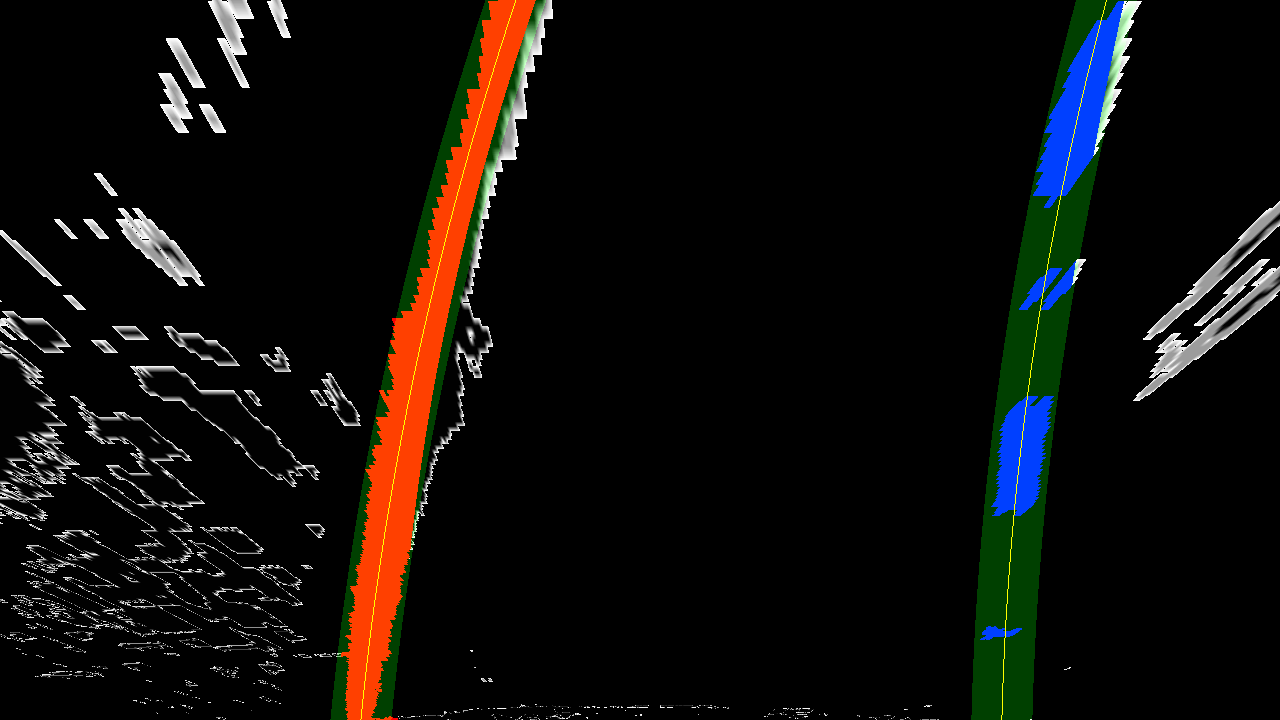
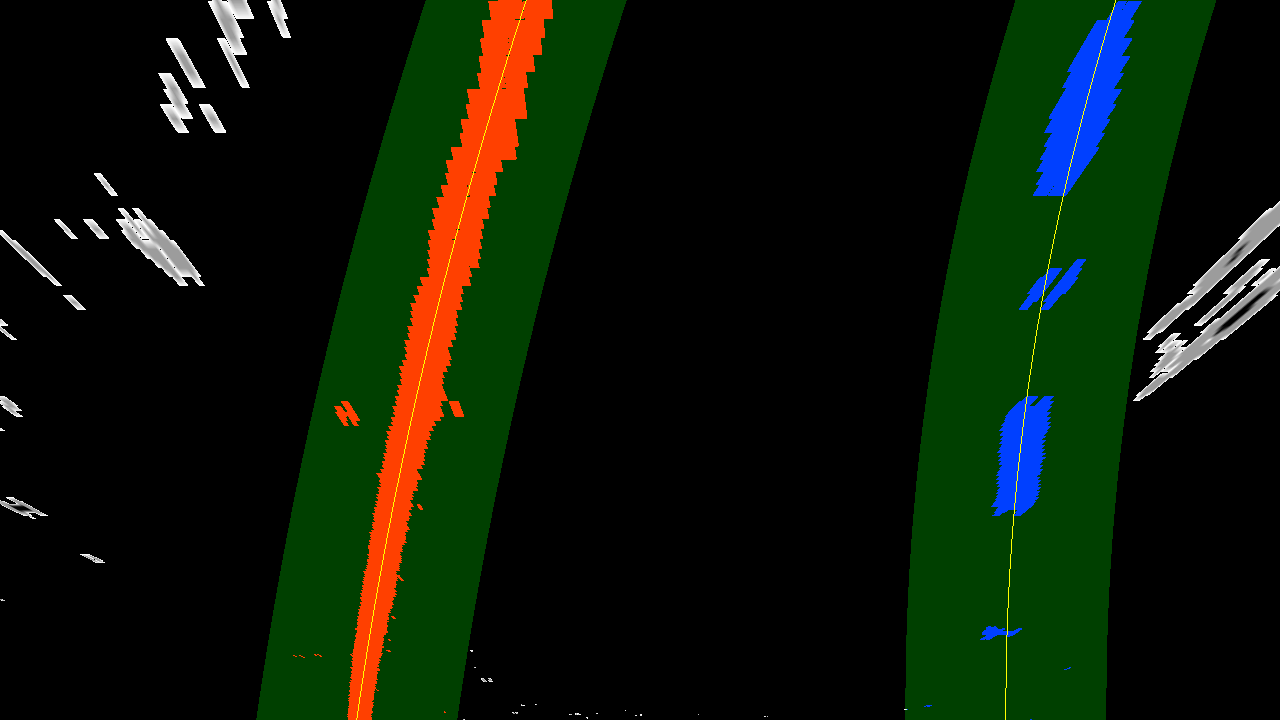
To be checked before commit

diff --git a/detect.py b/detect.py
@@ -1,4 +1,6 @@
+import argparse
 import numpy as np
+from numpy.linalg import inv
 import cv2
 import matplotlib
 matplotlib.use('agg')
@@ -129,13 +131,14 @@ def Init(img):
     global dist
     global initialized
     mtx, dist = C.LoadCalibrationCoeffs()
-    assert(mtx != None)
-    assert(dist != None)
 
     global PersMat
     global InvPersMat
     PersMat, InvPersMat = InitPerspectiveMatrix(img)
-    assert(PersMat != None)
+    print([PersMat, InvPersMat])
+    print()
+    print(inv(PersMat))
+    print(InvPersMat)
 
     initialized = True
 
@@ -145,6 +148,9 @@ class LanesDetector():
         # Indicates whether the sliding window histogram needs to
         # be computed
         self.lanesDetected = None
+        # 
+        self.mtx = None
+
         # Image height and width
         self.imageHeight = img_size[0]
         self.imageWidth = img_size[1]
@@ -563,10 +569,14 @@ class LanesDetector():
         assert(image.shape[1] == self.imageWidth)
         self.imageCounter += 1
 
-        undistorted = cv2.undistort(image, mtx, dist, None, mtx)
-        binary = self.Binarization(undistorted)
-        topDownViewBinarized = self.PerspectiveTransform(binary, PersMat)
+        undistorted = cv2.undistort(image, self.mtx, dist, None, self.mtx)
         topDownView = self.PerspectiveTransform(undistorted, PersMat)
+        topDownViewBinarized = self.Binarization(topDownView)
+
+        binary = self.Binarization(undistorted)
+        #topDownViewBinarized = self.PerspectiveTransform(binary, PersMat)
+        #topDownView = self.PerspectiveTransform(undistorted, PersMat)
+
         # result = self.BlindSlidingWindowsHistogram(topDownViewBinarized)
         # self.PolynomialFitAnalysis()
         # result, ploty, l_fit, r_fit = self.VisualizeHistogramPolynomial(result)
@@ -602,7 +612,17 @@ class LanesDetector():
         self.imageCounter += 1
         return binary
 
+    
+    def run(self, image=None):
+        pass
+
 if __name__ == "__main__":
+
+    parser = argparse.ArgumentParser(description='Detects lane lines on the road. Can be used online (using the camera) or offline (using a recording.')
+    parser.add_argument('-c', '--camera', action="store_true", help='uses the camera as an input the the algorithm')
+    args = parser.parse_args()
+    print(args.camera)
+
     img = LoadImage()
     Init(img)
 

diff --git a/test.py b/test.py
@@ -151,7 +151,7 @@ if __name__ == "__main__":
     img = cv2.undistort(img, D.mtx, D.dist, None, D.mtx)
     if 0:
         CalibrationTest(img, fname)
-    if 1:
+    if 0:
         result = ProcessingPipelineTest(D.LanesDetector(), img, fname)
         D.DisplayAndSave2Images(img, result, os.path.basename(fname)[:-4] + "-side.png", grayscale=True)
     if 0:
@@ -162,13 +162,13 @@ if __name__ == "__main__":
         WhiteColorTest(img, fname)
     if 0:
         DisplayParameters()
-    if 0:
+    if 1:
         PerspectiveTransformTest(D.LanesDetector(), img, fname)
-    if 1:
+    if 0:
         BlindSlidingWindowsHistogramTest(img, fname)
-    if 1:
+    if 0:
         PreviousPolynomialsTest(img, fname)
-    if 1:
+    if 0:
         TestPipeline(img, fname)
     if 0:
         lanesDetector = D.LanesDetector()

diff --git a/parameters.py b/parameters.py
@@ -9,8 +9,8 @@ parameters = { 'orig_points_x' : (575, 705, 1127, 203),#(617, 660, 1125, 188),
                'l_white_thresh': (200, 255),
                'margin'        : 100,
                'detection_distance' : 0,
-               'videofile_in'  : 'project_video.mp4',
-               'videofile_out' : 'output_videos/project_video.mp4',
+               'videofile_in'  : '../videos/project_video.mp4',
+               'videofile_out' : '../processed_videos/project_video.mp4',
             #    'videofile_in'  : 'challenge_video.mp4',
             #    'videofile_out' : 'output_videos/challenge_video.mp4',
                'output_video_as_images' : 0,
